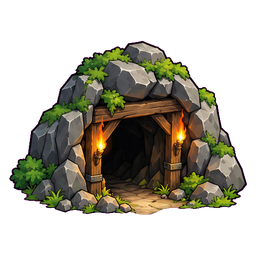
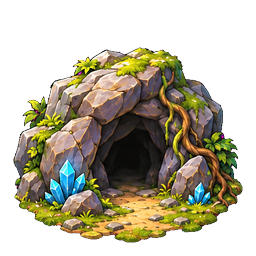
v0.63: paczka 02 – nowe wejścia/schody/wyjścia lochów (jaskinia, ruiny, grobowiec), grobowiec, przełęcz, osada cienia, ikony 7 nowych broni
Claude-Session: https://claude.ai/code/session_01GEbC5QhUPXkMWE4U6CsBAf

diff --git a/index.html b/index.html
@@ -233,7 +233,7 @@ header #mini{pointer-events:auto}
 .rg{font-size:11px;opacity:.7}.fch{clear:both;display:flex;flex-wrap:wrap;gap:6px;margin:6px 0}.fch button{padding:4px 10px;border-radius:14px;font-size:12px;background:#1e1913;border:1px solid #5a4630;color:#e8dcb8;width:auto;margin:0}.fch button.on{background:#6a5230;color:#fff;border-color:#e0a63a}.sl{display:inline-block;margin:2px 3px 2px 0;padding:2px 8px;border-radius:10px;font-size:12px;border:1px solid #4a3f2e;opacity:.6}.sl.eq{opacity:1;border-color:#7fd37f;color:#bff0bf}.sl.bg{opacity:1;border-color:#e0a63a;color:#ffe3a0}
 #skb{z-index:11}.bsr{display:flex;gap:10px;justify-content:center;margin:8px 0}.bs{width:74px;padding:0!important;background:none!important;border:0!important;display:flex;flex-direction:column;align-items:center}.bs .ik{display:block;width:62px;height:62px;border-radius:50%;border:3px solid #c9a24a;background:radial-gradient(#3a2e18,#120d06);overflow:hidden;line-height:56px;font-size:24px;text-align:center}#skb .ic{display:block;position:relative;width:100%;height:100%;text-align:center}#skb .ej{display:block;font-size:24px;line-height:56px}#skb .ik.s .ej{font-size:20px;line-height:40px}.bs.on .ik{border-color:#7fd8ff;box-shadow:0 0 14px #7fd8ff}.bs.emp .ik{border-style:dashed;border-color:#6a5a34;color:#8a7440}.bs em{font-style:normal;font-size:11px;margin-top:3px;line-height:1.1;height:25px;overflow:hidden}.bs small{font-size:10px;opacity:.7}.bsa{justify-content:center;min-height:42px;align-items:center}.pst{flex:1;border:1px solid #4a3f2e;border-radius:10px;padding:6px;text-align:center}.pst small{display:block;font-size:10px;opacity:.7;min-height:26px}.pst button{margin:2px!important;padding:4px 8px!important;font-size:12px!important}.sk{display:flex!important;gap:10px;align-items:center}.sk.in{border-color:#7fd8ff}.ik.s{flex:none;width:44px;height:44px;border-radius:50%;border:2px solid #c9a24a;background:#1a1409;overflow:hidden;display:block}.bdg{font-size:11px;background:#1d4d6a;border-radius:8px;padding:1px 6px;margin-left:4px}
 .tl .tb{position:absolute;top:1px;right:4px;font-size:10px;font-weight:bold;color:#fff;text-shadow:0 1px 2px #000;opacity:.8}
-.rp{position:absolute;pointer-events:none;background-repeat:no-repeat;background-size:100% 100%;z-index:1}.obj.wl{width:88px;transform:translate(-50%,-50%);z-index:6}.obj.wl .ic{height:84px}.obj.wl small{position:absolute;left:-10px;right:-10px;bottom:-16px;margin:0;font-size:11px}.obj.big{width:130px}.obj.big .ic{height:118px}
+.rp{position:absolute;pointer-events:none;background-repeat:no-repeat;background-size:100% 100%;z-index:1}.obj.wl{width:112px;transform:translate(-50%,-50%);z-index:6}.obj.wl .ic{height:106px}.obj.wl small{position:absolute;left:-10px;right:-10px;bottom:-16px;margin:0;font-size:11px}.obj.big{width:130px}.obj.big .ic{height:118px}
 
 #town.tm{padding:calc(env(safe-area-inset-top,0px) + 8px) 8px calc(env(safe-area-inset-bottom,0px) + 8px)}
 .tmap.full{aspect-ratio:auto;width:100%;height:calc(100dvh - 96px);overflow:auto;touch-action:pan-x pan-y;border-radius:10px;scrollbar-width:none}.tmap.full::-webkit-scrollbar{display:none}.tmap.full .tin{position:relative;width:max(100%,calc((100dvh - 96px)*var(--a)));aspect-ratio:var(--a)}.tmap.full .tname{position:sticky;display:block;top:6px;left:8px;margin:6px 0 -36px 8px;width:max-content;z-index:3}.tmap{position:relative;margin:0 auto;aspect-ratio:864/1821;width:min(100%,calc((100dvh - 96px)*.4744));background:#0b0c0f center/100% 100% no-repeat;border-radius:10px;overflow:hidden;border:2px solid #6a5a34}
@@ -564,7 +564,7 @@ function render(dx=0,dy=0,pp=0){
   {const hs=heroSig()+'|'+auraKey(),he=$('hero');if(he.dataset.s!==hs||!he.firstChild){he.innerHTML=heroHtml();he.dataset.s=hs}}wxSet(S.loc?'':tod(),S.loc?'':wth());$('tname').textContent=S.loc?POI[S.loc.k][0]:f.poi&&SET[f.poi]?f.nm:t.n;
   $('coords').textContent=`Pole ${S.x}, ${S.y} · mapa ${(S.map||0)+1} · ${TODE[tod()]}${wth()?WX[wth()].e:''}${bossHint()}`;
   if(S.loc){S.loc.vis=S.loc.vis||{};S.loc.vis[S.loc.fl+':'+S.loc.x+','+S.loc.y]=1;$('coords').textContent=`Piętro ${S.loc.fl+1} z ${S.loc.fls}`}
-  $('poi').onclick=S.loc?null:SET[fo.poi]?()=>{if(needFree(fo)){startFree(fo);return}TCUR=fo;TSEC=null;openTown()}:fo.poi&&fo.poi!=='oaza'?()=>enterLoc(fo):null;$('poi').className=!S.loc&&fo.poi&&SET[fo.poi]?'hzp':'';$('poi').innerHTML=S.loc?'':fo.poi&&SET[fo.poi]?`<div class="hz" style="--hzc:${HZC[fo.t]||'#cfe6b0'};width:${({wioska:68,miasteczko:78,zamek:74,obozowisko:74,klasztor:74,miasto:84})[fo.poi]||80}%"><img src="assets/world/w_hz_${fo.poi==='miasto'?'stolica':fo.poi}.png" onerror="this.onerror=null;this.src='assets/world/p_${fo.poi}.png';this.classList.add('fb')" alt="" draggable="false"><b>${fo.nm} <small>(${POI[fo.poi][0].toLowerCase()})</small></b><u>${needFree(fo)?'zajęte przez demony · tap, aby odbić':'tap, aby wejść'}</u></div>`:fo.poi?icon('',`assets/world/p_${fo.poi}.png`,POI[fo.poi][1])+(SET[fo.poi]?fo.nm+' <small>('+POI[fo.poi][0].toLowerCase()+')</small>':POI[fo.poi][0])+(SET[fo.poi]?(needFree(fo)?' · zajęte przez demony':' · tap, aby wejść'):(S.cleared&&S.cleared[ckey(fo)]?' (wyczyszczone)':' · tap, aby wejść')):'';
+  $('poi').onclick=S.loc?null:SET[fo.poi]?()=>{if(needFree(fo)){startFree(fo);return}TCUR=fo;TSEC=null;openTown()}:fo.poi&&fo.poi!=='oaza'?()=>enterLoc(fo):null;$('poi').className=!S.loc&&fo.poi&&SET[fo.poi]?'hzp':'';$('poi').innerHTML=S.loc?'':fo.poi&&SET[fo.poi]?`<div class="hz" style="--hzc:${HZC[fo.t]||'#cfe6b0'};width:${({wioska:68,miasteczko:78,zamek:74,obozowisko:74,klasztor:74,miasto:84})[fo.poi]||80}%"><img src="assets/world/w_hz_${fo.poi==='miasto'?'stolica':fo.poi}.png" onerror="this.onerror=null;this.src='assets/world/p_${fo.poi}.png';this.classList.add('fb')" alt="" draggable="false"><b>${fo.nm} <small>(${POI[fo.poi][0].toLowerCase()})</small></b><u>${needFree(fo)?'zajęte przez demony · tap, aby odbić':'tap, aby wejść'}</u></div>`:fo.poi?icon('',fo.tomb?`assets/world/p_grobowiec.png|assets/world/p_${fo.poi}.png`:`assets/world/p_${fo.poi}.png`,POI[fo.poi][1])+(SET[fo.poi]?fo.nm+' <small>('+POI[fo.poi][0].toLowerCase()+')</small>':POI[fo.poi][0])+(SET[fo.poi]?(needFree(fo)?' · zajęte przez demony':' · tap, aby wejść'):(S.cleared&&S.cleared[ckey(fo)]?' (wyczyszczone)':' · tap, aby wejść')):'';
   $('foes').innerHTML=f.foes.map((o,i)=>isDead(f,i)?'':`<button class="foe${o.ag?' ag':''}${POP?' pop':''}" data-i="${i}" style="--i:${i};left:${slot(i)[0]}%;top:${slot(i)[1]}%;z-index:${slot(i)[1]};transform:translate(-50%,-85%) scale(${(.8+slot(i)[1]/100*.4).toFixed(2)})">${icon('',`assets/enemies/e_${o.key}.png`,E[o.key][1])}<b>×${o.n}</b><small>${E[o.key][0]}${o.ag?' · atakuje!':''}</small></button>`).join('')+objs()+(S.loc?roomHtml()+walls():'');
   if(S.loc)v.style.background='linear-gradient(160deg,#4a463f,#17161a)';v.classList.toggle('dg',!!(S.loc&&HIMG[`assets/world/d_${S.loc.k}_wall.png`]));
   $('hint').innerHTML=(S.loc?'Przesuń palcem, żeby chodzić po lochu':'Przesuń palcem, żeby przejść na sąsiednie pole')+potBtns();
@@ -990,7 +990,7 @@ const actOf=m=>ACT[Math.min(m==null?(S.map||0):m,ACT.length-1)];
 const Dref=e=>12+ELX.dk*Math.pow(e,2.15),HPREF=l=>40+9.7*Math.pow(l,1.4),capPct=x=>x<=100?x:100+(x-100)*.5;
 const elAt=(x,y,m)=>{const a=actOf(m);return Math.max(1,Math.round(a.elLo+(a.elHi-a.elLo)*Math.min(1,Math.hypot(x,y)/ELX.zone)))};
 const goldFight=(el,n,m)=>(3+.8*el)*Math.pow(n,.8)*actOf(m).gold;
-const VER='0.62e';
+const VER='0.63';
 const SK=[{n:'Cios',res:'sta',cost:15,cd:4,dm:3},{n:'Kula ognia',res:'mana',cost:20,cd:6,dm:5},{n:'Leczenie',res:'mana',cost:25,cd:10,heal:35}];
 const CL={uczony:[3,4,10,3,'Uczony','Dużo many i inteligencji, mocna magia, mało HP.'],silacz:[10,4,3,8,'Siłacz','Dużo HP i siły, mocne ciosy, mało many.'],atleta:[5,9,4,5,'Atleta','Dużo staminy i zręczności, uniki, średnie HP.'],łowca:[4,10,3,5,'Łowca','Strzały, trucizny i zwierzęcy towarzysze. Dużo staminy i zręczności.','atleta'],nekromanta:[2,3,10,5,'Nekromanta','Przywołuje sługi, rzuca klątwy i wysysa życie wrogów.','uczony'],paladyn:[8,3,4,9,'Paladyn','Pancerz, leczenie i wytrzymałość. Najtwardsza klasa.','silacz']};
 const LB={sil:'Sił',zre:'Zręcz',int:'Int',wit:'Wit',hp:'HP',def:'Pancerz',ls:'% kradzieży życia',crit:'% krytyka',dod:'% uniku',atkp:'% ataku',spp:'% mocy zaklęć',hpp:'% HP',manap:'% many',stap:'% staminy',cdr:'% szybsze odnowienie'},RN=['Zwykły','Magiczny','Rzadki','Legendarny'],RC=['#cfcfcf','#6aa8ff','#f0d04a','#ff9a3c'];
@@ -1512,10 +1512,10 @@ function LC(L,x,y){const m=LM(L.id,L.fl,L.k);if(!m.c[x+','+y])return null;
 function lmove(dx,dy){const L=S.loc,nx=L.x+dx,ny=L.y+dy;if(!LC(L,nx,ny)){toast('Ściana');return}
   L.px=L.x;L.py=L.y;L.x=nx;L.y=ny;const p=S.p;p.hp=Math.min(mh(),p.hp+1);p.mana=Math.min(mm(),p.mana+3);p.sta=Math.min(sm(),p.sta+3);S.steps++;const cc=LC(L,nx,ny),tk='t'+chk(L,nx,ny);if(cc.trap&&!S.chs[tk]){S.chs[tk]=1;const dm=Math.max(1,Math.min(Math.round(mh()*.1),Math.round(p.hp)-1));p.hp-=dm;toast(`Pułapka! −${dm} HP`);sfx.hurt()}save();render(dx,dy);ambush()}
 function lback(){const L=S.loc;if(L.px!==undefined){L.x=L.px;L.y=L.py}}
-function wallPos(){const L=S.loc,v=$('view'),W=v.clientWidth||390,H=v.clientHeight||780,T=Math.round(W*.15),RT=64,RB=104,RH=H-RT-RB,op=(dx,dy)=>!!LC(L,L.x+dx,L.y+dy),fr=[[0,-1,[W/2,RT+T/2+10]],[-1,0,[36,RT+RH/2]],[1,0,[W-36,RT+RH/2]],[0,1,[W/2,RT+RH-T/2+14]]].filter(q=>!op(q[0],q[1]));const q=fr.length?fr[Math.floor(h(L.x,L.y,L.fl*7+3)*fr.length)]:[0,0,[W/2,RT+T/2+10]];return[(q[2][0]/W*100).toFixed(2),(q[2][1]/H*100).toFixed(2)]}
+function wallPos(){const L=S.loc,v=$('view'),W=v.clientWidth||390,H=v.clientHeight||780,T=Math.round(W*.15),RT=64,RB=104,RH=H-RT-RB,op=(dx,dy)=>!!LC(L,L.x+dx,L.y+dy),fr=[[0,-1,[W/2,RT+T/2+10]],[-1,0,[70,RT+RH/2]],[1,0,[W-70,RT+RH/2]],[0,1,[W*.2,RT+RH-T/2-20]]].filter(q=>!op(q[0],q[1])),fr2=fr.filter(q=>q[1]!==1),fq=fr2.length?fr2:fr;const q=fq.length?fq[Math.floor(h(L.x,L.y,L.fl*7+3)*fq.length)]:[0,0,[W/2,RT+T/2+10]];return[(q[2][0]/W*100).toFixed(2),(q[2][1]/H*100).toFixed(2)]}
 function objs(){const f=cur(),o=[],mk=(a,fi,em,tx,x,y,pth,cl)=>`<button class="obj${cl?' '+cl:''}${POP?' pop':''}" data-o="${a}" style="--i:2;left:${x}%;top:${y}%">${icon('',pth||`assets/world/p_${fi}.png`,em)}<small>${tx}</small></button>`;
   if(S.ground[gkey()]&&S.ground[gkey()].length)o.push(mk('ground','torba','🎒','Rzeczy na ziemi',27,80));
-  if(S.loc){const c=f.lc;const wp=wallPos(),dp=n=>`assets/world/d_${S.loc.k}_${n}.png|assets/world/p_${({stairs_up:'gora',stairs_down:'dol',exit:'wyjscie'})[n]}.png`;if(c.exit)o.push(mk('exit','wyjscie','🚪','Wyjście',wp[0],wp[1],dp('exit'),'wl'));if(c.up)o.push(mk('up','gora','🪜','Schody w górę',wp[0],wp[1],dp('stairs_up'),'wl'));if(c.down)o.push(mk('down','dol','🕳','Schody w dół',wp[0],wp[1],dp('stairs_down'),'wl'));
+  if(S.loc){const c=f.lc;const wp=wallPos(),dp=n=>{const q=({stairs_up:'gora',stairs_down:'dol',exit:'wyjscie'})[n];return `assets/world/p_${q}_${S.loc.tomb?'grobowiec':S.loc.k}.png|assets/world/d_${S.loc.k}_${n}.png|assets/world/p_${q}.png`};if(c.exit)o.push(mk('exit','wyjscie','🚪','Wyjście',wp[0],wp[1],dp('exit'),'wl'));if(c.up)o.push(mk('up','gora','🪜','Schody w górę',wp[0],wp[1],dp('stairs_up'),'wl'));if(c.down)o.push(mk('down','dol','🕳','Schody w dół',wp[0],wp[1],dp('stairs_down'),'wl'));
     if(c.chest&&!S.chs[chk(S.loc,S.loc.x,S.loc.y)])o.push(mk('chest',c.big?'skrzynia_wielka':'skrzynia',c.big?'🎁':'📦',c.big?'Wielka skrzynia':'Skrzynia',82,70))}
   else if(f.ch&&!S.chs[ckey(f)])o.push(mk('chest','skrzynia','📦','Skrzynia',82,70));
   if(!S.loc&&f.ev&&!(S.evs[ckey(f)]&&S.evs[ckey(f)].done))o.push(mk('event',f.ev,EVI[f.ev][0],EVI[f.ev][1],20,52));return o.join('')}
